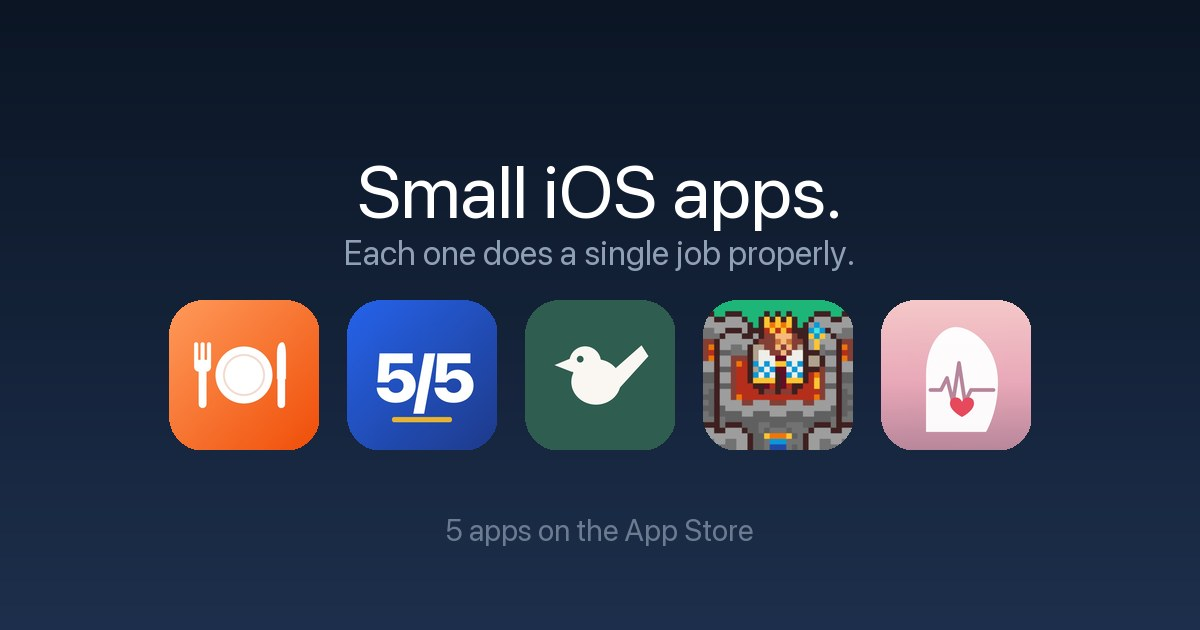
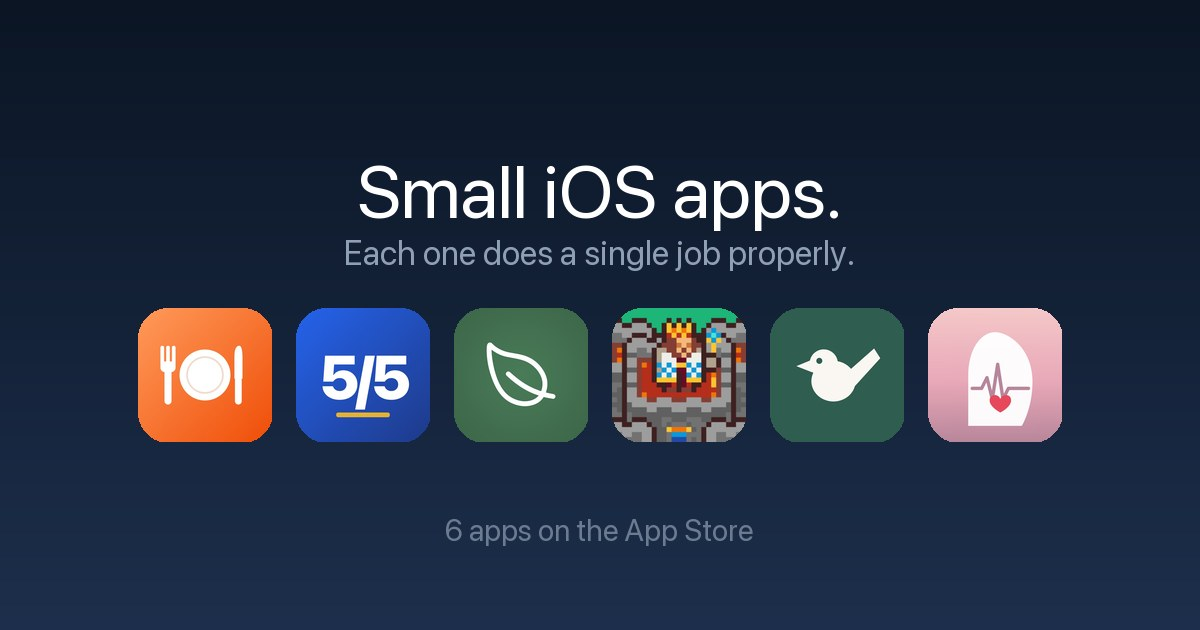
Add Little Bloomers to the portfolio
Sixth app, previously excluded on request. Copy written from its actual App
Store listing: personalised illustrated storybooks for ages 3-10, read aloud
with word highlighting, colour-in pages.

- Its "no ads, no third-party tracking" claim is genuinely true for this app
  (it's a kids title), unlike the others, so the trust line says so
- Footer privacy points at its own registered policy (bloomer-privacy-policy),
  not the shared one
- og.jpg regenerated with six icons; sitemap updated
- Index copy now derives the app count from the data, so "Five/Six iPhone apps"
  can't go stale again

Changed region(s): [[0.0925, 0.4524, 0.8942, 0.7238]]

diff --git a/little-bloomers/index.html b/little-bloomers/index.html
@@ -1,0 +1,94 @@
+<!DOCTYPE html>
+<html lang="en"><head>
+<meta charset="utf-8"><meta name="viewport" content="width=device-width, initial-scale=1">
+<title>Little Bloomers — Personalised Storybooks</title>
+<meta name="description" content="Type any idea — a friendly dragon who bakes cookies — and it becomes an illustrated story your child can hear read aloud, then colour in.">
+<meta name="theme-color" content="#437753">
+<meta property="og:title" content="Little Bloomers — Personalised Storybooks">
+<meta property="og:description" content="Type any idea — a friendly dragon who bakes cookies — and it becomes an illustrated story your child can hear read aloud, then colour in.">
+<meta property="og:type" content="website">
+<link rel="icon" href="img/icon.png">
+<link rel="canonical" href="https://degen-technology.github.io/little-bloomers/">
+<meta property="og:url" content="https://degen-technology.github.io/little-bloomers/">
+<meta property="og:image" content="https://degen-technology.github.io/little-bloomers/img/icon.png">
+<meta property="og:image:alt" content="Little Bloomers app icon">
+<meta name="twitter:card" content="summary">
+<meta name="twitter:title" content="Little Bloomers — Personalised Storybooks">
+<meta name="twitter:description" content="Type any idea — a friendly dragon who bakes cookies — and it becomes an illustrated story your child can hear read aloud, then colour in.">
+<meta name="twitter:image" content="https://degen-technology.github.io/little-bloomers/img/icon.png">
+<script type="application/ld+json">{"@context": "https://schema.org", "@type": "SoftwareApplication", "name": "Little Bloomers", "description": "Type any idea \u2014 a friendly dragon who bakes cookies \u2014 and it becomes an illustrated story your child can hear read aloud, then colour in.", "url": "https://degen-technology.github.io/little-bloomers/", "image": "https://degen-technology.github.io/little-bloomers/img/icon.png", "applicationCategory": "Education", "operatingSystem": "iOS", "offers": {"@type": "Offer", "price": "0", "priceCurrency": "USD"}}</script>
+<style>
+:root{--accent:#437753;--dark:#30553B;--soft:#E8EEEA;--g2:#539467;--ink:#0b1524;--muted:#5b6573;--line:#e7ebf0;--bg:#fff;--bg-alt:#f6f9fc;--radius:18px;--shadow:0 18px 50px rgba(16,42,90,.12)}
+*{box-sizing:border-box}html{scroll-behavior:smooth}
+body{margin:0;font-family:-apple-system,BlinkMacSystemFont,"Segoe UI",Roboto,Helvetica,Arial,sans-serif;color:var(--ink);background:var(--bg);line-height:1.6;-webkit-font-smoothing:antialiased}
+a{color:inherit;text-decoration:none}.wrap{max-width:1080px;margin:0 auto;padding:0 22px}
+nav{position:sticky;top:0;z-index:20;backdrop-filter:saturate(180%) blur(14px);background:rgba(255,255,255,.82);border-bottom:1px solid var(--line)}
+nav .wrap{display:flex;align-items:center;justify-content:space-between;height:64px}
+.brand{display:flex;align-items:center;gap:11px;font-weight:700}.brand img{width:34px;height:34px;border-radius:9px}
+.nav-cta{display:inline-flex;align-items:center;gap:8px;background:var(--ink);color:#fff;padding:9px 16px;border-radius:980px;font-size:.9rem;font-weight:600}
+.nav-cta svg{width:15px;height:15px;fill:#fff}
+.hero{overflow:hidden;background:radial-gradient(1100px 540px at 78% -10%,var(--soft) 0,rgba(255,255,255,0) 60%),linear-gradient(180deg,var(--soft) 0,#fff 70%)}
+.hero .wrap{display:grid;grid-template-columns:1.05fr .95fr;gap:40px;align-items:center;padding:74px 22px 64px}
+.eyebrow{display:inline-flex;align-items:center;gap:8px;background:var(--soft);color:var(--dark);font-weight:600;font-size:.82rem;padding:6px 13px;border-radius:980px;border:1px solid var(--line);margin-bottom:18px}
+h1{font-size:3.05rem;line-height:1.06;letter-spacing:-.02em;margin:.1em 0 .35em;font-weight:800}
+h1 .grad{background:linear-gradient(120deg,var(--accent),var(--g2));-webkit-background-clip:text;background-clip:text;color:transparent}
+.lede{font-size:1.18rem;color:var(--muted);max-width:30em;margin:0 0 28px}
+.cta-row{display:flex;align-items:center;gap:16px;flex-wrap:wrap}
+.appstore{display:inline-flex;align-items:center;gap:11px;background:#000;color:#fff;padding:13px 22px;border-radius:14px;font-weight:600;flex-direction:row-reverse}
+.appstore svg{width:26px;height:26px;fill:#fff}.appstore small{display:block;font-size:.66rem;opacity:.85;font-weight:500;line-height:1}.appstore b{font-size:1.16rem;font-weight:600}
+.price-pill{font-size:.92rem;color:var(--muted)}.price-pill b{color:var(--ink)}
+.phone-stage{display:flex;justify-content:center}
+.phone{width:286px;max-width:78vw;border-radius:46px;background:#0b0b0d;padding:11px;box-shadow:var(--shadow)}
+.phone img{width:100%;border-radius:36px;display:block}
+.trust{border-top:1px solid var(--line);border-bottom:1px solid var(--line);background:var(--bg-alt)}
+.trust .wrap{display:flex;flex-wrap:wrap;gap:14px 36px;justify-content:center;padding:20px 22px}
+.trust span{display:inline-flex;align-items:center;gap:9px;font-weight:600;color:#28303b}
+.trust svg{width:19px;height:19px;fill:none;stroke:var(--accent);stroke-width:2.4}
+section{padding:78px 0}.sec-head{text-align:center;max-width:34em;margin:0 auto 50px}
+.sec-head h2{font-size:2.1rem;letter-spacing:-.02em;margin:0 0 .35em;font-weight:800}.sec-head p{color:var(--muted);font-size:1.1rem;margin:0}
+.grid{display:grid;grid-template-columns:repeat(3,1fr);gap:22px}
+.card{background:#fff;border:1px solid var(--line);border-radius:var(--radius);padding:28px 24px}
+.ic{width:46px;height:46px;border-radius:12px;background:var(--soft);display:flex;align-items:center;justify-content:center;margin-bottom:16px;font-size:22px}
+.card h3{margin:0 0 .35em;font-size:1.16rem}.card p{margin:0;color:var(--muted);font-size:.97rem}
+.steps{display:grid;grid-template-columns:repeat(3,1fr);gap:26px;counter-reset:step}.step{padding-top:8px}
+.step::before{counter-increment:step;content:counter(step);display:flex;align-items:center;justify-content:center;width:42px;height:42px;border-radius:50%;background:var(--accent);color:#fff;font-weight:700;font-size:1.15rem;margin-bottom:16px}
+.step h3{margin:0 0 .3em;font-size:1.14rem}.step p{margin:0;color:var(--muted)}
+.faq{max-width:760px;margin:0 auto}details{border:1px solid var(--line);border-radius:14px;padding:4px 20px;margin-bottom:12px;background:#fff}
+summary{cursor:pointer;font-weight:600;padding:16px 0;list-style:none;display:flex;justify-content:space-between;gap:18px}
+summary::-webkit-details-marker{display:none}summary::after{content:"+";font-size:1.5rem;color:var(--accent)}details[open] summary::after{content:"\2013"}details p{margin:0 0 18px;color:var(--muted)}
+.band{background:linear-gradient(120deg,var(--accent),var(--g2));color:#fff;text-align:center}.band h2{font-size:2.2rem;margin:0 0 .3em}.band p{margin:0 0 26px;opacity:.95;font-size:1.12rem}
+.band .appstore{background:#fff;color:#000}.band .appstore svg{fill:#000}
+footer{background:#0b1524;color:#aeb8c6;padding:48px 0 40px;font-size:.92rem}footer .wrap{display:flex;flex-wrap:wrap;gap:18px;justify-content:space-between}
+footer a{color:#dfe6ef}.links{display:flex;gap:22px;flex-wrap:wrap}
+@media(max-width:840px){.hero .wrap{grid-template-columns:1fr;text-align:center}.lede,.cta-row,.eyebrow{margin-inline:auto}.cta-row{justify-content:center}.phone-stage{order:-1}h1{font-size:2.5rem}.grid,.steps{grid-template-columns:1fr}}
+</style></head><body>
+<nav><div class="wrap"><a class="brand" href="#top"><img src="img/icon.png" alt="Little Bloomers">Little Bloomers</a>
+<a class="nav-cta" href="https://apps.apple.com/us/app/little-bloomers/id6773757806?uo=4"><svg viewBox="0 0 384 512"><path d="M318 268c-1-58 47-86 49-87-27-39-68-44-83-45-35-4-69 21-87 21s-45-20-74-20c-38 1-73 22-93 56-40 69-10 171 28 227 19 27 41 58 71 57 29-1 40-19 74-19s44 19 74 18c31 0 50-28 68-55 22-31 31-61 31-63-1-1-60-23-61-90z"/><path d="M262 84c16-19 27-46 24-73-23 1-51 16-67 35-15 17-28 44-25 70 26 2 52-13 68-32z"/></svg><span>App Store</span></a></div></nav>
+<header id="top" class="hero"><div class="wrap"><div>
+<span class="eyebrow">Ages 3–10 · No ads, no tracking</span>
+<h1>Their idea,<br><span class="grad">their storybook.</span></h1>
+<p class="lede">Type any idea — a friendly dragon who bakes cookies — and it becomes an illustrated story your child can hear read aloud, then colour in.</p>
+<div class="cta-row"><a class="appstore" href="https://apps.apple.com/us/app/little-bloomers/id6773757806?uo=4"><span><small>Download on the</small><b>App Store</b></span><svg viewBox="0 0 384 512"><path d="M318 268c-1-58 47-86 49-87-27-39-68-44-83-45-35-4-69 21-87 21s-45-20-74-20c-38 1-73 22-93 56-40 69-10 171 28 227 19 27 41 58 71 57 29-1 40-19 74-19s44 19 74 18c31 0 50-28 68-55 22-31 31-61 31-63-1-1-60-23-61-90z"/><path d="M262 84c16-19 27-46 24-73-23 1-51 16-67 35-15 17-28 44-25 70 26 2 52-13 68-32z"/></svg></a><span class="price-pill"><b>Free</b> to download</span></div>
+</div><div class="phone-stage"><div class="phone"><img src="img/home.jpg" alt="Little Bloomers screenshot"></div></div></div></header>
+<div class="trust"><div class="wrap">
+<span><svg viewBox="0 0 24 24"><path d="M20 6 9 17l-5-5"/></svg>Made from your child's own idea</span><span><svg viewBox="0 0 24 24"><path d="M20 6 9 17l-5-5"/></svg>Read aloud, word by word</span><span><svg viewBox="0 0 24 24"><path d="M20 6 9 17l-5-5"/></svg>Colour every page</span><span><svg viewBox="0 0 24 24"><path d="M20 6 9 17l-5-5"/></svg>No ads, no third-party tracking</span>
+</div></div>
+<section><div class="wrap"><div class="sec-head"><h2>What it does</h2><p>Personalised Storybooks.</p></div>
+<div class="grid">
+<div class="card"><div class="ic">①</div><h3>Any idea becomes a story</h3><p>A puppy astronaut. A dragon who bakes. Whatever they think of gets illustrated.</p></div><div class="card"><div class="ic">②</div><h3>Read aloud for early readers</h3><p>Warm narration with each word highlighted as it's spoken.</p></div><div class="card"><div class="ic">③</div><h3>Colour every page</h3><p>Simple tap-to-fill colouring — no mess, no lost crayons.</p></div>
+</div></div></section>
+<section style="background:var(--bg-alt)"><div class="wrap"><div class="sec-head"><h2>How it works</h2><p>No tutorial, no account, no setup.</p></div>
+<div class="steps">
+<div class="step"><h3>Type an idea</h3><p>In your child's own words.</p></div><div class="step"><h3>Read it together</h3><p>Illustrated, and narrated aloud.</p></div><div class="step"><h3>Colour it in</h3><p>Then keep it in your library for bedtime.</p></div>
+</div></div></section>
+<section><div class="wrap"><div class="sec-head"><h2>Questions, answered</h2></div><div class="faq">
+<details open><summary>What ages is it for?</summary><p>Built for ages 3–10. Pick Little, Growing or Big Sprout so the reading level fits your child.</p></details><details><summary>Is it safe for children?</summary><p>It's made for kids: no ads, no third-party tracking, and content-safety rules applied to every story.</p></details><details><summary>Is it free?</summary><p>Free to download. A subscription unlocks ongoing story creation.</p></details>
+</div></div></section>
+<section class="band"><div class="wrap"><h2>A new story tonight.</h2><p>Free on the App Store.</p>
+<a class="appstore" href="https://apps.apple.com/us/app/little-bloomers/id6773757806?uo=4"><span><small>Download on the</small><b>App Store</b></span><svg viewBox="0 0 384 512"><path d="M318 268c-1-58 47-86 49-87-27-39-68-44-83-45-35-4-69 21-87 21s-45-20-74-20c-38 1-73 22-93 56-40 69-10 171 28 227 19 27 41 58 71 57 29-1 40-19 74-19s44 19 74 18c31 0 50-28 68-55 22-31 31-61 31-63-1-1-60-23-61-90z"/><path d="M262 84c16-19 27-46 24-73-23 1-51 16-67 35-15 17-28 44-25 70 26 2 52-13 68-32z"/></svg></a></div></section>
+<footer><div class="wrap"><div>© 2026 Degen Technology</div><div class="links">
+<a href="https://www.degentechnology.com/bloomer-privacy-policy">Privacy</a>
+<a href="https://www.apple.com/legal/internet-services/itunes/dev/stdeula/">Terms</a>
+<a href="mailto:alan@degentechnology.com">Contact</a>
+<a href="https://degen-technology.github.io/">All apps</a></div></div></footer>
+</body></html>

diff --git a/index.html b/index.html
@@ -2,21 +2,21 @@
 <html lang="en"><head>
 <meta charset="utf-8"><meta name="viewport" content="width=device-width, initial-scale=1, viewport-fit=cover">
 <title>Small iOS apps — Degen Technology</title>
-<meta name="description" content="Five iPhone apps, each built to do a single job properly. Free on the App Store.">
+<meta name="description" content="Six iPhone apps, each built to do a single job properly. Free on the App Store.">
 <meta name="theme-color" content="#0B1524">
 <link rel="canonical" href="https://degen-technology.github.io/">
 <link rel="icon" href="mealite/img/icon.png">
 <meta property="og:title" content="Small iOS apps">
-<meta property="og:description" content="Five iPhone apps, each built to do a single job properly. Free on the App Store.">
+<meta property="og:description" content="Six iPhone apps, each built to do a single job properly. Free on the App Store.">
 <meta property="og:type" content="website">
 <meta property="og:url" content="https://degen-technology.github.io/">
 <meta property="og:image" content="https://degen-technology.github.io/og.jpg">
 <meta property="og:image:width" content="1200">
 <meta property="og:image:height" content="630">
-<meta property="og:image:alt" content="App icons for five iPhone apps">
+<meta property="og:image:alt" content="App icons for 6 iPhone apps">
 <meta name="twitter:card" content="summary_large_image">
 <meta name="twitter:title" content="Small iOS apps">
-<meta name="twitter:description" content="Five iPhone apps, each built to do a single job properly. Free on the App Store.">
+<meta name="twitter:description" content="Six iPhone apps, each built to do a single job properly. Free on the App Store.">
 <meta name="twitter:image" content="https://degen-technology.github.io/og.jpg">
 <style>
 *{box-sizing:border-box}
@@ -59,7 +59,7 @@ footer a{color:var(--blue)}.flinks{display:flex;gap:16px;flex-wrap:wrap;margin-b
 <header>
   <h1>Small iOS apps.</h1>
   <p class="sub">I build and ship them one at a time. Each does a single job properly — no bloat, no upsell maze.</p>
-  <div class="meta"><span class="chip">5 on the App Store</span><span class="chip">iPhone &amp; iPad</span><span class="chip">Free to download</span></div>
+  <div class="meta"><span class="chip">6 on the App Store</span><span class="chip">iPhone &amp; iPad</span><span class="chip">Free to download</span></div>
 </header>
 <ul>
     <li class="app">
@@ -75,6 +75,13 @@ footer a{color:var(--blue)}.flinks{display:flex;gap:16px;flex-wrap:wrap;margin-b
         <span class="txt"><b>Lock In</b><i>Focus &amp; Accountability</i><span>Commit to five tasks a day. Blocks the apps that steal them.</span></span>
       </a>
       <a class="get" href="https://apps.apple.com/us/app/lock-in-focus-accountability/id6758227831?uo=4" aria-label="Get Lock In: Focus, Accountability on the App Store"><svg viewBox="0 0 384 512" aria-hidden="true"><path d="M318 268c-1-58 47-86 49-87-27-39-68-44-83-45-35-4-69 21-87 21s-45-20-74-20c-38 1-73 22-93 56-40 69-10 171 28 227 19 27 41 58 71 57 29-1 40-19 74-19s44 19 74 18c31 0 50-28 68-55 22-31 31-61 31-63-1-1-60-23-61-90z"/><path d="M262 84c16-19 27-46 24-73-23 1-51 16-67 35-15 17-28 44-25 70 26 2 52-13 68-32z"/></svg><span>Get</span></a>
+    </li>
+    <li class="app">
+      <a class="face" href="little-bloomers/">
+        <img src="little-bloomers/img/icon.png" alt="" width="60" height="60" loading="lazy">
+        <span class="txt"><b>Little Bloomers</b><i>Personalised Storybooks</i><span>Your child's idea becomes an illustrated story, read aloud.</span></span>
+      </a>
+      <a class="get" href="https://apps.apple.com/us/app/little-bloomers/id6773757806?uo=4" aria-label="Get Little Bloomers on the App Store"><svg viewBox="0 0 384 512" aria-hidden="true"><path d="M318 268c-1-58 47-86 49-87-27-39-68-44-83-45-35-4-69 21-87 21s-45-20-74-20c-38 1-73 22-93 56-40 69-10 171 28 227 19 27 41 58 71 57 29-1 40-19 74-19s44 19 74 18c31 0 50-28 68-55 22-31 31-61 31-63-1-1-60-23-61-90z"/><path d="M262 84c16-19 27-46 24-73-23 1-51 16-67 35-15 17-28 44-25 70 26 2 52-13 68-32z"/></svg><span>Get</span></a>
     </li>
     <li class="app">
       <a class="face" href="citadel-champions/">
